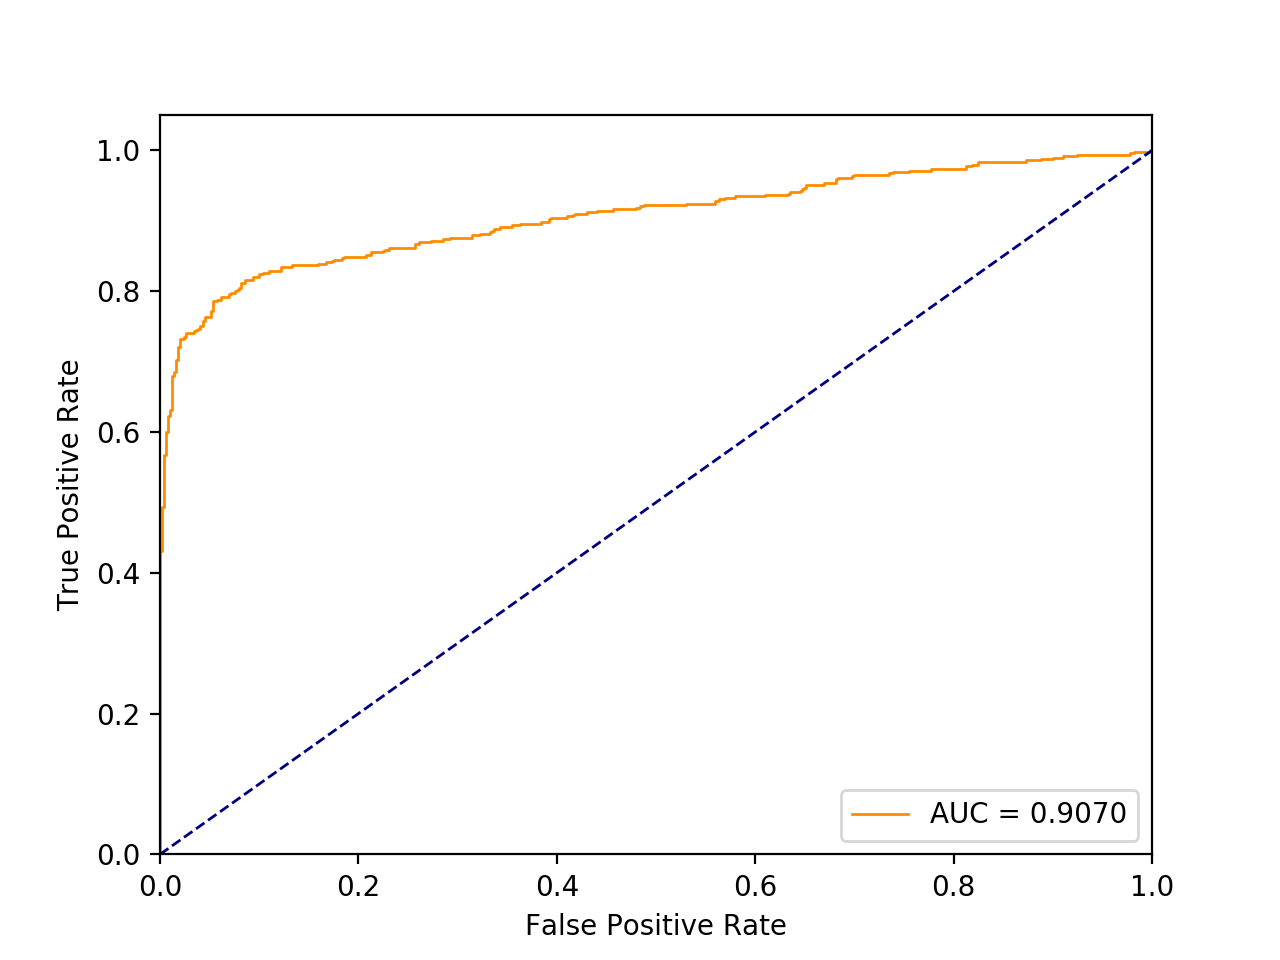
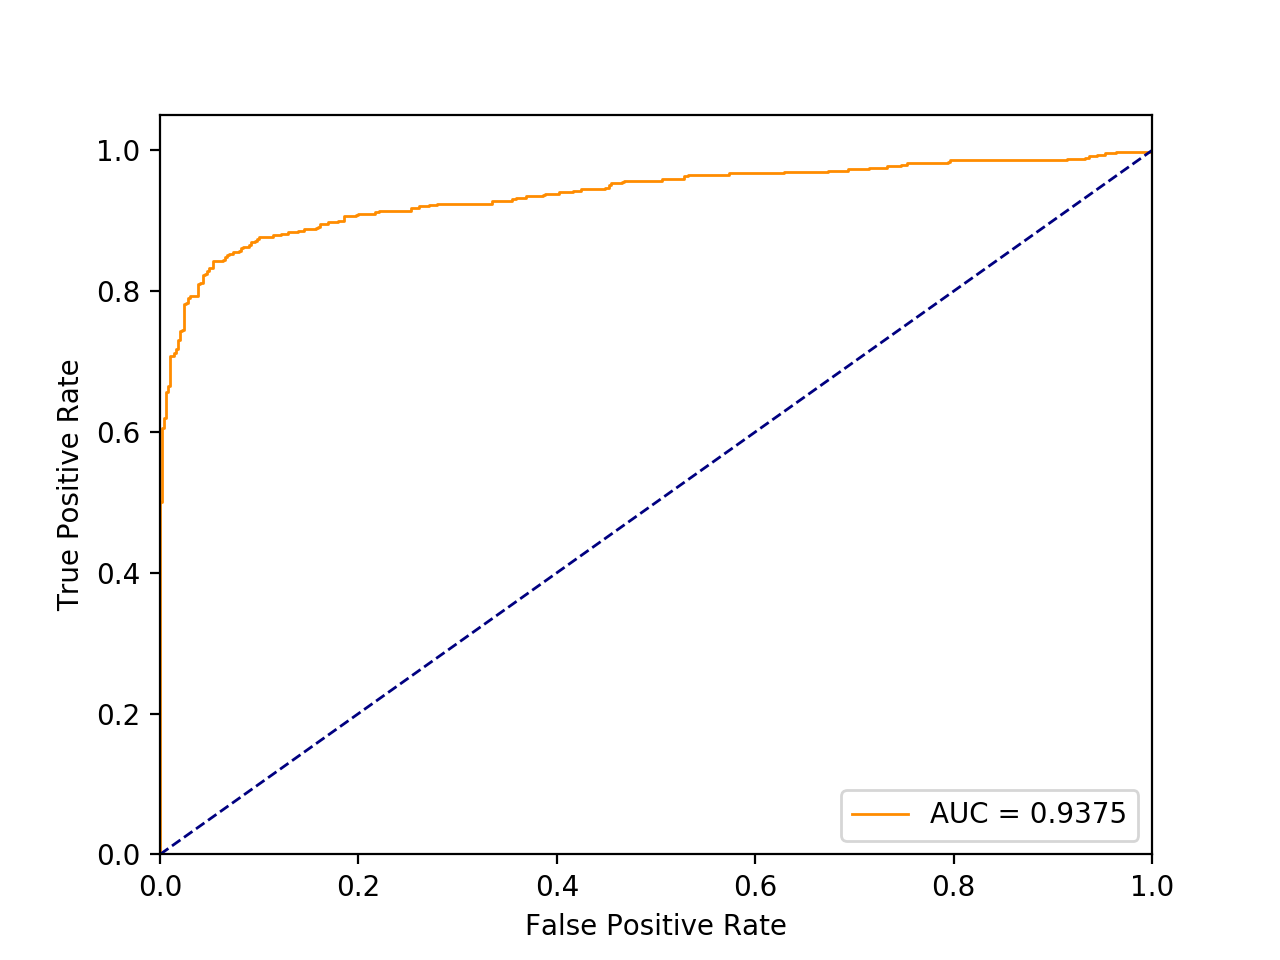
0.9375

diff --git a/main.py b/main.py
@@ -16,11 +16,11 @@ import random
 
 
 parser = argparse.ArgumentParser()
-parser.add_argument("--batch_size", type = int, default = 16)
+parser.add_argument("--batch_size", type = int, default = 4096)
 parser.add_argument("--lr", type = float, default = 2e-4)
-parser.add_argument("--n_epochs", type = int, default = 1)
+parser.add_argument("--n_epochs", type = int, default = 5)
 parser.add_argument("--normalization", type = str, default = 'z_score')
-parser.add_argument("--reconstructionLoss", type = str, default = 'MSE')
+parser.add_argument("--reconstructionLoss", type = str, default = 'L1')
 parser.add_argument("--mode", type = str, default = 'test')
 parser.add_argument("--GPU", type = bool, default = False)
 parser.add_argument("--resume", type = bool, default = False)
@@ -46,7 +46,7 @@ test_data_point_num = 490
 train_data_point_num = data_point_num - test_data_point_num
 trainData, nonFraudTestData = random_split(non_fraud_Data, [train_data_point_num, test_data_point_num])
 #
-trainData, _ = random_split(trainData, [10000, len(trainData) - 10000])
+#trainData, _ = random_split(trainData, [100000, len(trainData) - 100000])
 #
 trainData = DataSet.DataSet([trainData], args.normalization)
 fraud_Data, _ = random_split(fraud_Data, [490, 2])
